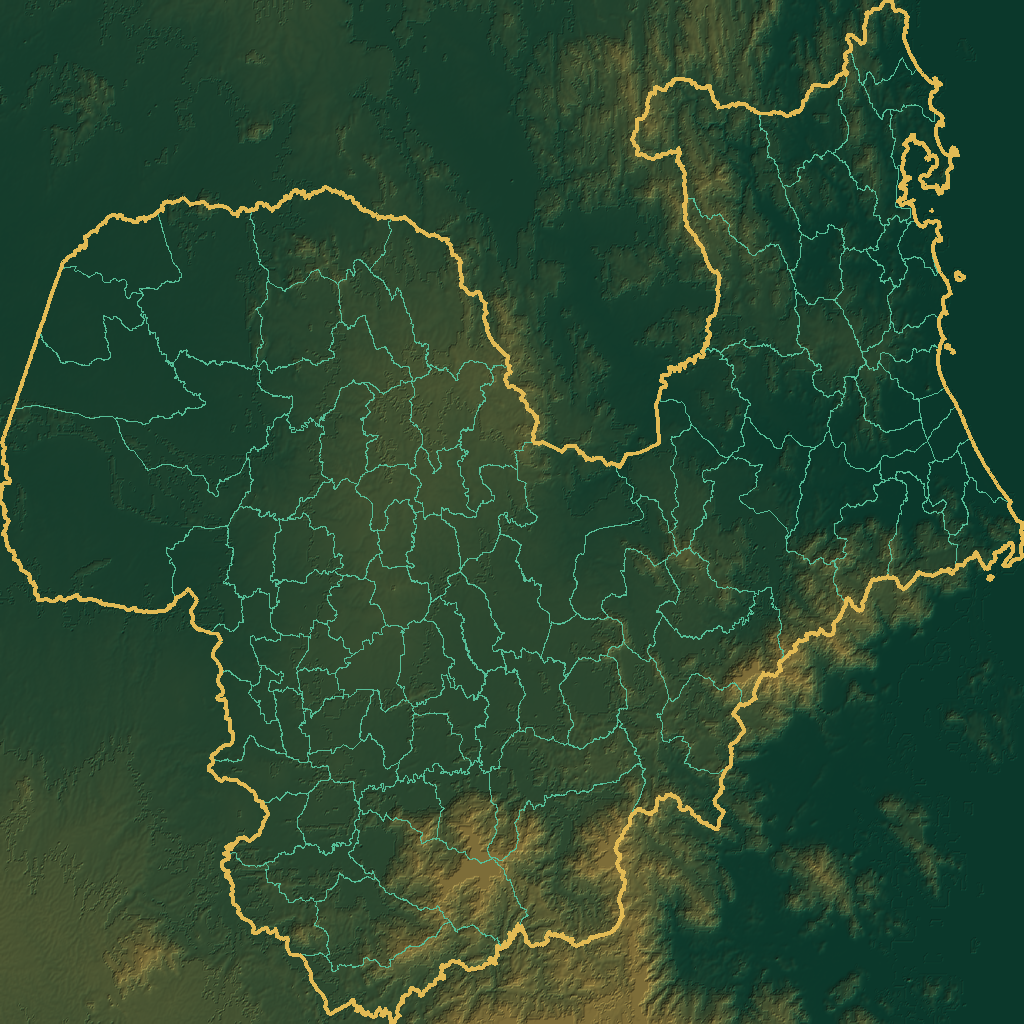
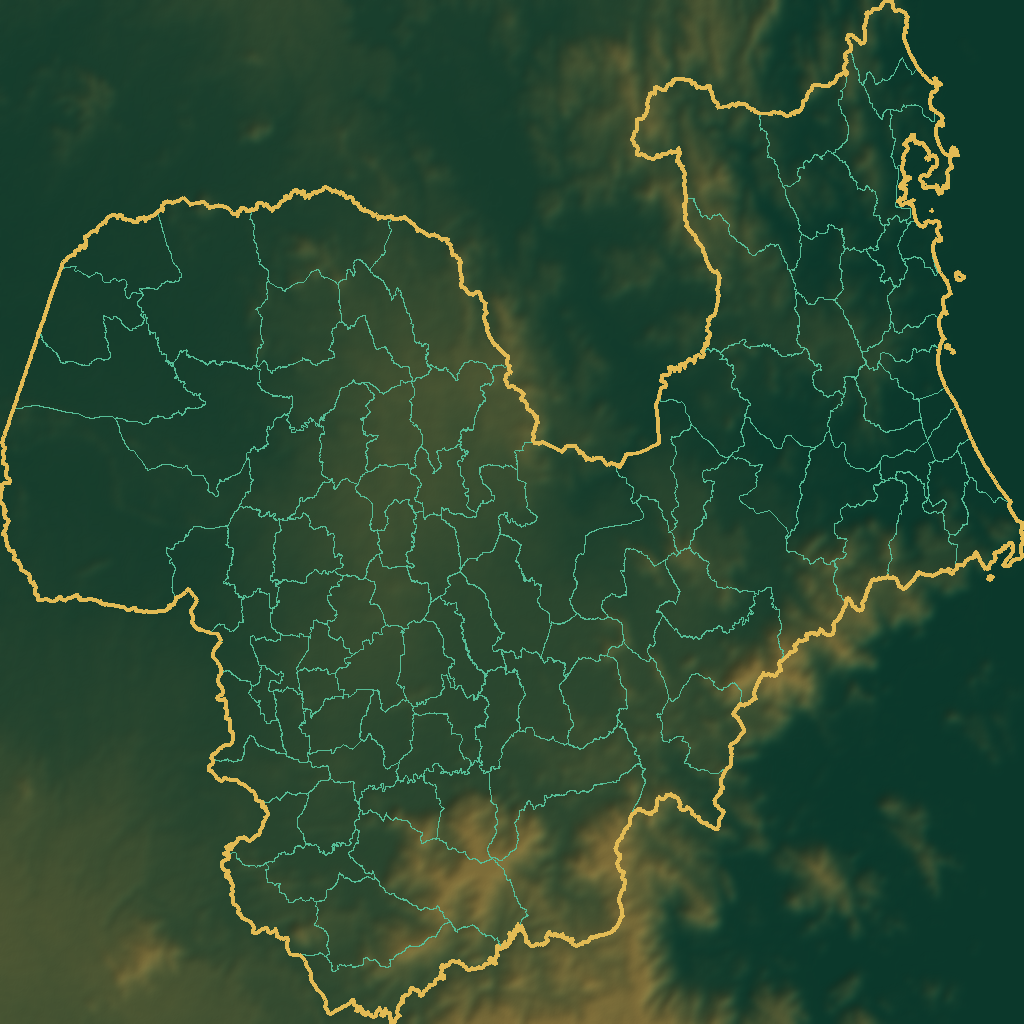
fix: smooth terrain slopes and remove floating selection plane

diff --git a/src/components/map/AdministrativeMap.tsx b/src/components/map/AdministrativeMap.tsx
@@ -52,7 +52,7 @@ function TerrainSurface() {
         map={colorMap}
         normalMap={normalMap}
         displacementMap={heightMap}
-        displacementScale={0.58}
+        displacementScale={0.3}
         displacementBias={0.02}
         alphaMap={alphaMap}
         alphaTest={0.25}
@@ -90,13 +90,13 @@ function MapContent() {
                   e.stopPropagation();
                   select(active ? null : code);
                 }}
-                position={[0, 0, active ? 1.18 : 1.12]}
+                position={[0, 0, 0.32]}
               >
                 <extrudeGeometry
                   args={[
                     shape,
                     {
-                      depth: active ? 0.055 : 0.025,
+                      depth: 0.002,
                       bevelEnabled: false,
                     },
                   ]}
@@ -115,16 +115,18 @@ function MapContent() {
                   roughness={0.72}
                   metalness={0.04}
                   transparent
-                  opacity={active ? 0.34 : hot ? 0.2 : 0}
+                  opacity={0}
                   depthWrite={false}
+                  colorWrite={false}
                 />
                 <meshStandardMaterial
                   attach="material-1"
                   color={active ? '#8e6120' : hot ? '#317d68' : '#0a4d42'}
                   roughness={0.9}
                   transparent
-                  opacity={active ? 0.38 : hot ? 0.16 : 0}
+                  opacity={0}
                   depthWrite={false}
+                  colorWrite={false}
                 />
               </mesh>
             ))}
@@ -134,7 +136,7 @@ function MapContent() {
       {showLabels &&
         visibleLabels.map(([code, label, p]) => {
           return (
-            <Html key={code} position={[p[0], -p[1], 1.28]} transform sprite distanceFactor={2.4}>
+            <Html key={code} position={[p[0], -p[1], 0.34]} transform sprite distanceFactor={2.4}>
               <span className="map-label">{label.name}</span>
             </Html>
           );

diff --git a/scripts/generate_daklak_terrain.py b/scripts/generate_daklak_terrain.py
@@ -3,7 +3,7 @@ from __future__ import annotations
 import io, json, math, urllib.request
 from pathlib import Path
 import numpy as np
-from PIL import Image, ImageDraw
+from PIL import Image, ImageDraw, ImageFilter
 from shapely.ops import unary_union
 from gis_common import OUTPUT, read_source, write_json
 
@@ -51,7 +51,11 @@ def main() -> None:
     elevation = np.clip(elevation, 0, None)
     low, high = float(np.percentile(elevation,1)), float(np.percentile(elevation,99.5))
     normalized = np.clip((elevation-low)/max(high-low,1),0,1)
-    Image.fromarray((normalized*255).astype(np.uint8)).save(OUTPUT/"daklak-terrain-height.png",optimize=True)
+    height_image = Image.fromarray((normalized*255).astype(np.uint8)).filter(
+        ImageFilter.GaussianBlur(radius=3)
+    )
+    normalized = np.asarray(height_image, dtype=np.float32) / 255
+    height_image.save(OUTPUT/"daklak-terrain-height.png",optimize=True)
     gy,gx=np.gradient(normalized); strength=8
     normals=np.dstack((-gx*strength,-gy*strength,np.ones_like(normalized)))
     normals/=np.linalg.norm(normals,axis=2,keepdims=True)